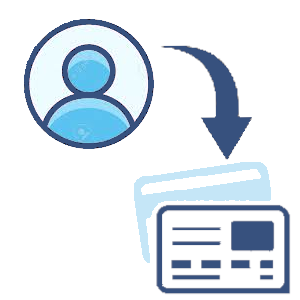
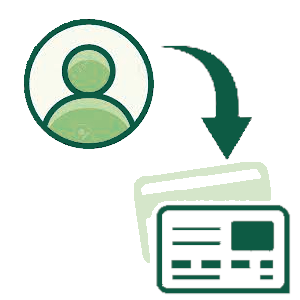
colors

Changed region(s): [[0.42, 0.15, 0.99, 0.99], [0.06, 0.06, 0.51, 0.51]]

diff --git a/src/app/admin/newrequest/newrequest.component.html b/src/app/admin/newrequest/newrequest.component.html
@@ -26,7 +26,7 @@
                                     <div class="form-group form-focus">
                                         <label class="focus-label"  >Confirma que deseas solicitar una nueva tarjeta de crédito? </label>
                                     </div>
-                                    <button class="btn btn-primary btn-block btn-lg login-btn" type="submit">Solicitar</button>
+                                    <button class="btn btn-success btn-block btn-lg login-btn" type="submit">Solicitar</button>
                                 </form>
                             </div>
                         </div>
@@ -77,7 +77,7 @@
                                             </div>
                                         </div>
                                     </div>
-                                    <button class="btn btn-primary btn-block btn-lg login-btn" type="submit">Solicitar</button>
+                                    <button class="btn btn-success btn-block btn-lg login-btn" type="submit">Solicitar</button>
                                 </form>
                             </div>
                         </div>
@@ -128,7 +128,7 @@
                                             </div>
                                         </div>
                                     </div>
-                                    <button class="btn btn-primary btn-block btn-lg login-btn" type="submit">Cargar</button>
+                                    <button class="btn btn-success btn-block btn-lg login-btn" type="submit">Cargar</button>
                                 </form>
                             </div>
                         </div>
@@ -214,7 +214,7 @@
                                             </div>
                                         </div>
                                     </div>
-                                    <button class="btn btn-primary btn-block btn-lg login-btn" type="submit">Solicita Retiro</button>
+                                    <button class="btn btn-success btn-block btn-lg login-btn" type="submit">Solicita Retiro</button>
                                 </form>
                             </div>
                         </div>

diff --git a/src/app/material/dzmt-stepper/stepper-vertical/stepper-vertical.component.html b/src/app/material/dzmt-stepper/stepper-vertical/stepper-vertical.component.html
@@ -1,4 +1,4 @@
-<!-- <button mat-raised-button color="primary" (click)="isLinear = !isLinear" id="toggle-linear">
+<!-- <button mat-raised-button color="success" (click)="isLinear = !isLinear" id="toggle-linear">
   {{!isLinear ? 'Enable linear mode' : 'Disable linear mode'}}
 </button> -->
 <mat-vertical-stepper [linear]="isLinear" #stepper>
@@ -19,7 +19,7 @@
       </div>
       <div [hidden]="waiting" >
 
-        <button   (click)="goAmount(stepper)" class="btn btn-primary" >Siguiente</button>
+        <button   (click)="goAmount(stepper)" class="btn btn-success" >Siguiente</button>
       </div>
     </form>
   </mat-step>
@@ -42,7 +42,7 @@
     <p>Desea confimar la transferencia de fondos?</p>
     <div>
       <button mat-button matStepperPrevious>Atras</button>
-      <button  (click)="ok(stepper)" class="btn btn-primary" >Si</button>
+      <button  (click)="ok(stepper)" class="btn btn-success" >Si</button>
     </div>
   </mat-step>
 </mat-vertical-stepper>

diff --git a/src/app/admin/acc/acc.component.html b/src/app/admin/acc/acc.component.html
@@ -106,7 +106,7 @@
                                                 </div>
                                             </div>
                                             </div>
-                                            <button class="btn btn-primary btn-block btn-lg login-btn" type="submit">Actualizar datos</button>
+                                            <button class="btn btn-success btn-block btn-lg login-btn" type="submit">Actualizar datos</button>
                                         </form>
                                     </div>
                                 </div>

diff --git a/src/app/admin/activatecard/activatecard.component.html b/src/app/admin/activatecard/activatecard.component.html
@@ -35,7 +35,7 @@
                                         </div>
                                     </div>
                                     </div>
-                                    <button class="btn btn-primary btn-block btn-lg login-btn" type="submit">Asociar tarjeta</button>
+                                    <button class="btn btn-success btn-block btn-lg login-btn" type="submit">Asociar tarjeta</button>
 
                                     <button class="btn btn-danger btn-block btn-lg login-btn" (click)="negative()">Denegar</button>
                                 </form>

diff --git a/src/app/admin/activateaccount/activateaccount.component.html b/src/app/admin/activateaccount/activateaccount.component.html
@@ -35,7 +35,7 @@
                                         </div>
                                     </div>
                                     </div>
-                                    <button class="btn btn-primary btn-block btn-lg login-btn" type="submit">Activar cuenta</button>
+                                    <button class="btn btn-success btn-block btn-lg login-btn" type="submit">Activar cuenta</button>
                                 </form>
                             </div>
                         </div>

diff --git a/src/app/admin/settings/settings.component.html b/src/app/admin/settings/settings.component.html
@@ -38,7 +38,7 @@
                                             </div>
                                         </div>
                                     </div>
-                                    <button class="btn btn-primary btn-block btn-lg login-btn" type="submit">Actualizar</button>
+                                    <button class="btn btn-success btn-block btn-lg login-btn" type="submit">Actualizar</button>
                                 </form>
                             </div>
                         </div>

diff --git a/src/app/admin/transactionview/transactionview.component.html b/src/app/admin/transactionview/transactionview.component.html
@@ -34,7 +34,7 @@
                                        
                                     </div>
                                    
-                                    <button class="btn btn-primary btn-block btn-lg login-btn" type="submit">Aprobar</button>
+                                    <button class="btn btn-success btn-block btn-lg login-btn" type="submit">Aprobar</button>
                                 </form>
                             </div>
                         </div>
